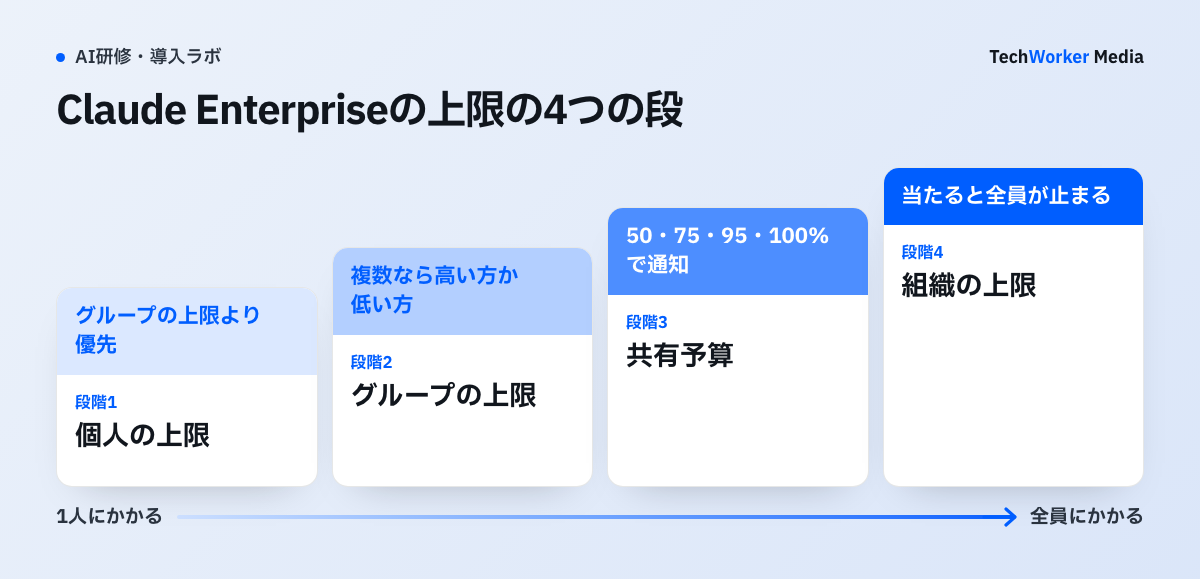
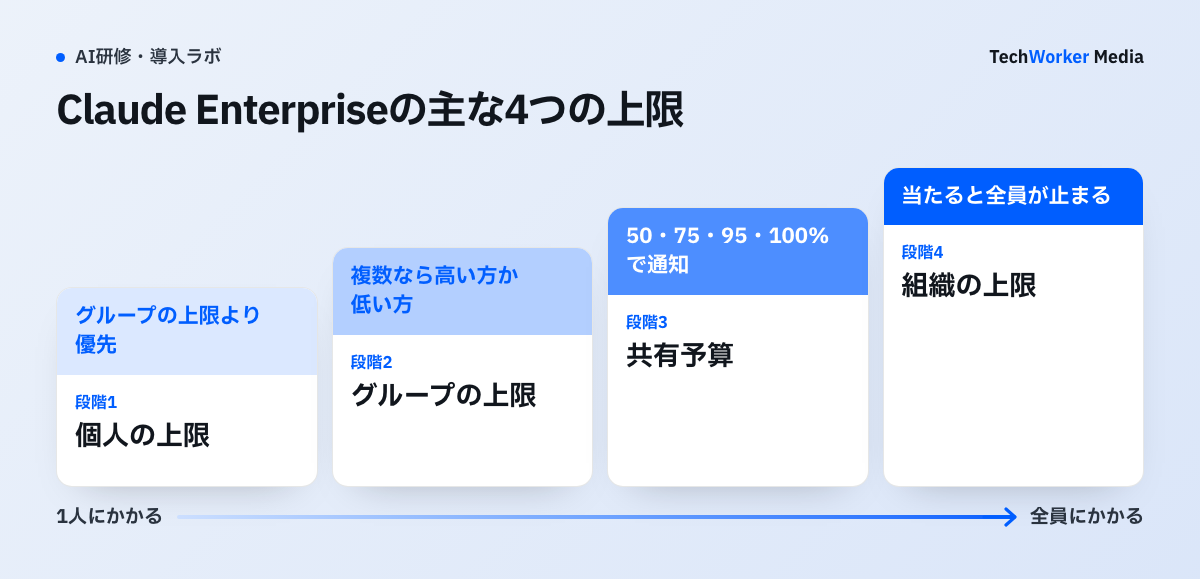
media: Claude Enterpriseの予算管理の「上限の段」を「上限の種類」にそろえる (#222)
- 本文の導入と表の見出し、図1の題を、見出し「上限は何種類あり」に合わせた

Changed region(s): [[0.3392, 0.1554, 0.5858, 0.2176]]

diff --git a/media/kenshu/claude-enterprise-yosan-kanri.html b/media/kenshu/claude-enterprise-yosan-kanri.html
@@ -100,7 +100,7 @@ fbq('init','1264057945446029');fbq('track','PageView');
 <li><strong>通知：</strong>予算の50%・75%・95%・100%で、課金（Billing）の権限を持つ全員にメールが届きます。</li>
 <li><strong>集計：</strong>11月6日からはプロジェクトにコストコードを付けて、案件や部門ごとの支出を集計できます（ベータ）。</li>
 </ul>
-<p>Anthropicの発表とヘルプセンターの記事（2026年11月18日確認）をもとに、上限の段の関係、設定の場所、稟議に書くことをまとめます。Teamプランで使える範囲も後半で整理します。</p>
+<p>Anthropicの発表とヘルプセンターの記事（2026年11月18日確認）をもとに、上限どうしの関係、設定の場所、稟議に書くことをまとめます。Teamプランで使える範囲も後半で整理します。</p>
 
 <h2 id="source">Claude Enterpriseの共有予算とは、何ですか？</h2>
 <p class="answer">グループに月1つの予算を置き、メンバー全員がそこから使う仕組みです。2026年10月28日に、Enterprise向けに一般提供になりました。</p>
@@ -115,7 +115,7 @@ fbq('init','1264057945446029');fbq('track','PageView');
     <figure class="fig-inline"><a href="figs/claude-enterprise-yosan-kanri-1.png" target="_blank" rel="noopener"><img src="figs/claude-enterprise-yosan-kanri-1.png" alt="Claude Enterpriseの主な4つの上限。個人の上限はその人だけにかかりグループの上限より優先、グループの上限はメンバー1人ずつに同じ額、共有予算はグループ全体で1つの額で50・75・95・100%で通知、組織の上限は全員・全製品の合計で当たると全員が止まる。" width="1200" height="579" loading="lazy" decoding="async"></a></figure>
 <div class="tbl-wrap">
   <table style="min-width:640px">
-    <tr><th>上限の段</th><th>何にかかるか</th><th>設定する場所</th><th>注意</th></tr>
+    <tr><th>上限の種類</th><th>何にかかるか</th><th>設定する場所</th><th>注意</th></tr>
     <tr><td>組織の上限</td><td>全員・全製品の合計</td><td>Organization settings ＞ Usage</td><td>当たると全員が同時に止まる</td></tr>
     <tr><td>個人の上限</td><td>その人だけ</td><td>Usage のメンバーごとの上限</td><td>グループの上限より優先される</td></tr>
     <tr><td>グループの上限</td><td>メンバー1人ずつに同じ額</td><td>Usage ＞ Spend limits ＞ By group/tier</td><td>複数のグループに入る人は、高い方か低い方を選ぶ</td></tr>
